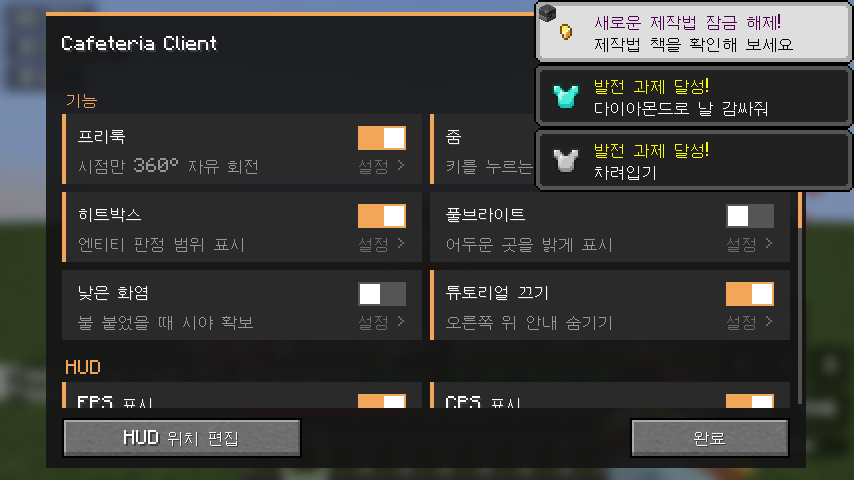
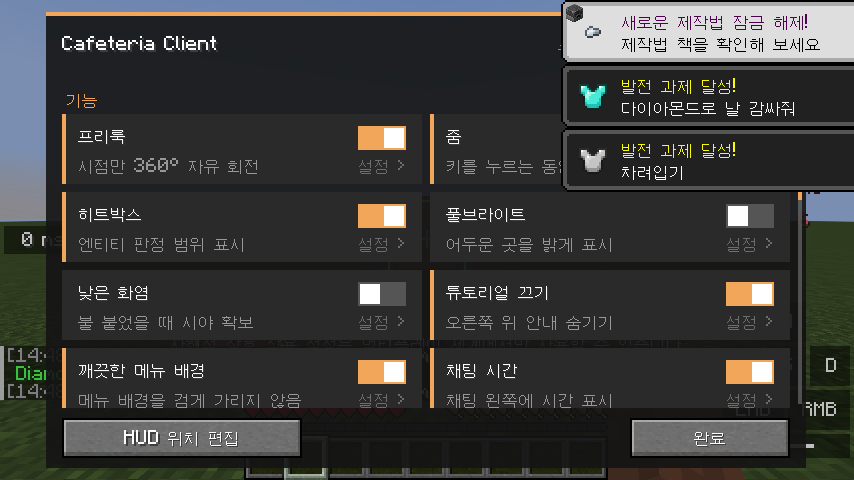
모드: HUD 를 채팅보다 앞에 그리기, 문서·스크린샷 갱신
- HUD 레이어를 채팅 뒤(위)로 옮겨서 채팅 글자와 배경이 HUD 를 가리지 않게 함
- 게임 테스트: 채팅으로 덮인 자리의 HUD 가 그대로 보이는지 픽셀로 확인
- README: 1.2.0 기능, 모드 업데이트 방법, 저장소 주소(lhj080902/cafeteria), 검증 현황

Claude-Session: https://claude.ai/code/session_01CAfmFFtawcww3dHGdrgFxY

diff --git a/mod/src/gametest/java/io/github/lhj080902/cafeteria/test/CafeteriaClientGameTest.java b/mod/src/gametest/java/io/github/lhj080902/cafeteria/test/CafeteriaClientGameTest.java
@@ -84,6 +84,7 @@ public class CafeteriaClientGameTest implements FabricClientGameTest {
 			testScreens(context, input);
 			testChatTime(context);
 			testInfiniteChat(context);
+			testHudAboveChat(context);
 			testScreenshotCopy(context, input);
 			testHudEditor(context, input);
 			testHudBoxSelection(context, input);
@@ -436,6 +437,76 @@ public class CafeteriaClientGameTest implements FabricClientGameTest {
 		});
 		check(chatMessages(context).size() == 100, "모듈을 껐는데 100줄로 줄지 않았습니다: " + chatMessages(context).size());
 		context.runOnClient(minecraft -> minecraft.gui.getChat().clearMessages(false));
+	}
+
+	/**
+	 * HUD 는 채팅보다 앞에 그려져야 한다: 채팅 글자로 꽉 찬 자리에 HUD 를 올려놓고,
+	 * HUD 글자색이 그대로 보이는지, 채팅의 흰 글자가 HUD 위로 비치지 않는지 픽셀로 확인한다.
+	 */
+	private static void testHudAboveChat(ClientGameTestContext context) {
+		int[] area = context.computeOnClient(minecraft -> {
+			minecraft.gui.getChat().clearMessages(false);
+
+			// 흰색 꽉 찬 글자로 채팅창을 덮는다.
+			for (int i = 0; i < 8; i++) {
+				minecraft.gui.getChat().addMessage(Component.literal("\u2588".repeat(30)));
+			}
+
+			int width = minecraft.getWindow().getGuiScaledWidth();
+			int height = minecraft.getWindow().getGuiScaledHeight();
+			Modules.FPS.textColor.set(0xFF55FF55);
+			Modules.FPS.shadow.set(false);
+			Modules.FPS.setPosition(minecraft, 60, height - 80, width, height);
+			int scale = (int) minecraft.getWindow().getGuiScale();
+			return new int[] {
+				Modules.FPS.x(minecraft, width) * scale, Modules.FPS.y(minecraft, height) * scale,
+				Modules.FPS.width(minecraft) * scale, Modules.FPS.height(minecraft) * scale
+			};
+		});
+		context.waitTicks(3);
+		BufferedImage image = readImage(context.takeScreenshot("hud-above-chat"));
+		int hudText = 0;
+		int chatWhite = 0;
+
+		for (int y = area[1]; y < area[1] + area[3]; y++) {
+			for (int x = area[0]; x < area[0] + area[2]; x++) {
+				int rgb = image.getRGB(x, y);
+				int red = rgb >> 16 & 0xFF;
+				int green = rgb >> 8 & 0xFF;
+				int blue = rgb & 0xFF;
+
+				// HUD 글자색(연두색)에 가까운 픽셀. 글꼴 가장자리는 배경과 섞여서 정확히 같은 색은 아니다.
+				if (green > 170 && red < 150 && blue < 150) {
+					hudText++;
+				} else if (red > 235 && green > 235 && blue > 235) {
+					chatWhite++;
+				}
+			}
+		}
+
+		// 채팅 글자가 실제로 그 자리를 덮고 있었는지도 확인한다 (HUD 바로 왼쪽은 흰 글자가 그대로 보여야 한다).
+		int besideHud = 0;
+
+		for (int y = area[1]; y < area[1] + area[3]; y++) {
+			for (int x = area[0] - 40; x < area[0] - 4; x++) {
+				int rgb = image.getRGB(x, y);
+
+				if ((rgb >> 16 & 0xFF) > 235 && (rgb >> 8 & 0xFF) > 235 && (rgb & 0xFF) > 235) {
+					besideHud++;
+				}
+			}
+		}
+
+		context.runOnClient(minecraft -> {
+			Modules.FPS.textColor.reset();
+			Modules.FPS.shadow.reset();
+			Modules.FPS.resetPosition();
+			minecraft.gui.getChat().clearMessages(false);
+		});
+		CafeteriaClient.LOGGER.info("CAFETERIA GAMETEST: 채팅 위의 HUD — HUD 글자 {}픽셀, HUD 위로 비친 채팅 {}픽셀, HUD 옆 채팅 {}픽셀", hudText, chatWhite, besideHud);
+		check(besideHud > 200, "채팅 글자가 HUD 자리 주변을 덮지 않아서 비교할 수 없습니다: " + besideHud);
+		check(hudText > 40, "HUD 글자가 채팅에 가려졌습니다: " + hudText + "픽셀");
+		check(chatWhite == 0, "채팅 글자가 HUD 위에 그려졌습니다: " + chatWhite + "픽셀");
 	}
 
 	/**

diff --git a/mod/src/main/java/io/github/lhj080902/cafeteria/CafeteriaClient.java b/mod/src/main/java/io/github/lhj080902/cafeteria/CafeteriaClient.java
@@ -61,8 +61,8 @@ public class CafeteriaClient implements ClientModInitializer {
 
 			return InteractionResult.PASS;
 		});
-		// 채팅보다 아래 레이어에 그려서 채팅창을 가리지 않게 한다.
-		HudLayerRegistrationCallback.EVENT.register(layers -> layers.attachLayerBefore(
+		// 채팅보다 위 레이어에 그려서 채팅 글자와 배경이 HUD 를 가리지 않게 한다. (Tab 플레이어 목록보다는 아래)
+		HudLayerRegistrationCallback.EVENT.register(layers -> layers.attachLayerAfter(
 			IdentifiedLayer.CHAT, ResourceLocation.fromNamespaceAndPath(MOD_ID, "hud"), (graphics, deltaTracker) -> HudRenderer.render(graphics)));
 		// 스크린샷 안내의 [복사] 버튼이 실행하는 명령어: /cafeteria screenshot copy <파일 이름>
 		ClientCommandRegistrationCallback.EVENT.register((dispatcher, registryAccess) -> dispatcher.register(

diff --git a/README.md b/README.md
@@ -14,6 +14,8 @@ PvP에 필요한 기능만 기본으로 넣고, 나머지는 런처에서 원하
 | --- | --- |
 | ![모드 설정 메뉴](docs/screenshots/mod-menu.png) | ![런처 홈](docs/screenshots/launcher-home.png) |
 | ![히트박스와 HUD](docs/screenshots/mod-hitbox-hud.png) | ![모드 찾기](docs/screenshots/launcher-browse.png) |
+| ![HUD 박스 선택](docs/screenshots/mod-hud-box-select.png) | ![모드 업데이트](docs/screenshots/launcher-mod-updates.png) |
+| ![스크린샷 복사 버튼](docs/screenshots/mod-screenshot-copy.png) | |
 
 ## 기능
 
@@ -22,22 +24,28 @@ PvP에 필요한 기능만 기본으로 넣고, 나머지는 런처에서 원하
 | 기능 | 기본 키 | 설명 |
 | --- | --- | --- |
 | 프리룩 | 왼쪽 Alt | 캐릭터가 보는 방향은 그대로 두고 카메라만 360° 회전. "누르는 동안" / "토글" 선택 |
-| 줌 | C | 누르는 동안 확대(기본 4배). 휠로 배율 조절, 확대한 만큼 감도 자동 보정, 부드러운 전환, 시네마틱 카메라 |
+| 줌 | C | 누르는 동안 확대(기본 4배). 휠로 배율 조절, 확대한 만큼 감도 자동 보정, 부드러운 전환, 시네마틱 카메라. 손(든 아이템)은 확대되지 않으며, 원하면 "줌 중 손 숨기기"를 켤 수 있음 |
 | 히트박스 | 항상 표시 | 선 색상, 표시 대상(전체/생물/플레이어), 피격 시 색 변경, 눈높이 선, 시선 방향 선, 내 히트박스 |
 | 풀브라이트 (감마) | G | 어두운 곳을 밝게 표시. 키로 바로 켜고 끄며 밝기는 1~15 로 조절 (기본 꺼짐) |
 | 낮은 화염 | – | 불이 붙었을 때 시야를 가리는 불꽃을 아래로 내림 (기본 꺼짐) |
 | 튜토리얼 끄기 | – | 오른쪽 위에 뜨는 "나무를 캐세요" 같은 바닐라 튜토리얼 안내를 자동으로 끔 |
-| HUD | – | FPS · CPS(좌/우) · 핑 · 키스트로크 · 갑옷 상태 · 포션 효과 · 좌표 · 콤보 · 리치 |
+| 깨끗한 메뉴 배경 | – | ESC 메뉴나 모드 설정을 열 때 뒤 화면을 흐리게 하는 효과를 끄고, 얼마나 어둡게 덮을지(0~80%)를 직접 정함. 흐림 효과가 검게 나오는 환경에서도 게임 화면이 그대로 보임 |
+| 채팅 시간 | – | 채팅 메시지 왼쪽에 받은 시각 표시. 형식(24시간 / 초 포함 / 오전·오후), 색, 대괄호 설정 |
+| 무한 채팅 | – | 채팅 기록 100줄 제한을 풀어서 한참 전 채팅까지 올려 볼 수 있음 |
+| 스크린샷 도구 | F2 (바닐라) | 스크린샷 저장 안내 옆에 **[복사]** **[폴더]** 버튼. [복사]를 누르면 그림이 클립보드에 들어가 메신저에 바로 붙여 넣을 수 있음. "찍으면 자동 복사" 옵션 |
+| HUD | – | FPS · CPS(좌/우) · 핑 · 키스트로크 · 갑옷 상태 · 포션 효과 · 좌표 · 콤보 · 리치. 채팅보다 앞에 그려져서 채팅에 가려지지 않음 |
 | 모드 설정 메뉴 | 오른쪽 Shift | 기능 켜기/끄기, 세부 설정, HUD 위치 편집 |
 
 **HUD 위치 편집** (설정 메뉴 → "HUD 위치 편집")
 
 | 조작 | 동작 |
 | --- | --- |
-| 끌기 | 이동 |
+| 끌기 | 이동 (여러 개를 선택했으면 간격을 유지한 채 함께 이동) |
+| 빈 곳을 끌기 | 박스를 그려서 닿은 요소를 한꺼번에 선택 |
+| Ctrl + 클릭 / Ctrl + A | 선택에 추가·해제 / 전체 선택 |
 | Shift 누른 채 끌기 | 화면 가장자리·가운데, 다른 요소의 가장자리·가운데에 맞춰 붙음 (안내선 표시) |
 | 방향키 | 선택한 요소를 1픽셀씩 이동 (Shift 와 함께 누르면 10픽셀) |
-| 휠 | 크기 조절 |
+| 휠 | 크기 조절 (선택한 묶음 위에서 굴리면 묶음 전체) |
 | 오른쪽 클릭 | 그 요소의 설정 열기 |
 
 - 키는 마인크래프트 **설정 → 조작 → Cafeteria Client** 에서 바꿀 수 있습니다.
@@ -54,20 +62,35 @@ PvP에 필요한 기능만 기본으로 넣고, 나머지는 런처에서 원하
   - **Modrinth**: 바로 사용 가능
   - **CurseForge**: 본인 API 키를 설정에 입력해야 사용 가능 ([발급 안내](https://support.curseforge.com/support/solutions/articles/9000208346-about-the-curseforge-api-and-how-to-apply-for-a-key))
 - **설정 가져오기** – 루나 클라이언트나 기본 마인크래프트에서 쓰던 설정을 찾아서 Cafeteria 게임 폴더로 복사합니다 (아래 "다른 클라이언트에서 넘어오기" 참고).
+- **모드 업데이트** – 런처를 켤 때(또는 "업데이트 확인"을 누르면) 받은 모드의 새 버전을 찾아 "내 모드"에 표시합니다. 모드별 "업데이트" 또는 "모두 업데이트"로 바꿉니다 (아래 "모드 업데이트" 참고).
 - **자동 업데이트** – 런처를 켤 때 새 버전을 확인해서 내려받고, 다시 시작하면 설치합니다. Cafeteria 모드는 런처에 들어 있어서 함께 업데이트됩니다.
-- **설정** – 메모리(RAM), 게임 창 크기, Java 실행 파일, 추가 JVM 인수, 플레이 후 런처 닫기, 게임 폴더, 공식 런처 위치, CurseForge API 키, 자동 업데이트, 설치 복구, 로그 폴더 열기, 프로필 제거, 설정 초기화
+- **설정** – 메모리(RAM), 게임 창 크기, Java 실행 파일, 추가 JVM 인수, 플레이 후 런처 닫기, 게임 폴더, 공식 런처 위치, CurseForge API 키, 자동 업데이트, 모드 업데이트 확인, 설치 복구, 로그 폴더 열기, 프로필 제거, 설정 초기화
 
 ## 사용 방법
 
 1. **공식 Minecraft 런처**를 설치하고 한 번 실행해서 로그인해 둡니다. (정품 Java Edition 계정 필요)
-2. `Cafeteria-Setup-1.1.0.exe` 를 실행해서 설치합니다. 바탕화면과 시작 메뉴에 `Cafeteria` 바로가기가 생깁니다.
-   (설치 없이 쓰고 싶으면 `Cafeteria-1.1.0-win-x64.zip` 의 압축을 풀고 `Cafeteria.exe` 를 실행해도 됩니다.)
+2. `Cafeteria-Setup-1.2.0.exe` 를 실행해서 설치합니다. 바탕화면과 시작 메뉴에 `Cafeteria` 바로가기가 생깁니다.
+   (설치 없이 쓰고 싶으면 `Cafeteria-1.2.0-win-x64.zip` 의 압축을 풀고 `Cafeteria.exe` 를 실행해도 됩니다.)
 3. **플레이**를 누르면 설치가 끝난 뒤 공식 런처가 열립니다. `Cafeteria` 프로필이 선택된 상태에서 플레이를 누르세요.
 4. 게임 안에서 **오른쪽 Shift** 로 모드 설정 메뉴를 엽니다.
 
 > 삭제는 Windows 설정의 "앱" 목록에서 Cafeteria 를 제거하면 됩니다. 게임 폴더(`%APPDATA%\.cafeteria`)의 모드와 설정은 남습니다.
 >
 > 서명되지 않은 프로그램이라 처음 실행할 때 Windows 가 "Windows의 PC 보호" 경고를 띄울 수 있습니다. "추가 정보 → 실행"을 누르면 됩니다.
+
+## 모드 업데이트
+
+| 모드 종류 | 업데이트 방법 |
+| --- | --- |
+| Cafeteria Client, Fabric API (기본 모드) | 런처가 관리합니다. 런처가 업데이트되면 다음 플레이 때 함께 바뀝니다. |
+| 런처로 받은 모드, 직접 넣었지만 Modrinth 에 올라와 있는 모드 | "내 모드 → 업데이트 확인". 파일 해시로 지금 버전을 알아내고 1.21.4 Fabric 용 새 버전을 찾습니다. |
+| CurseForge 에서 받은 모드 | 같은 방법. 설정에 CurseForge API 키가 있어야 확인됩니다. |
+| 사이트에 없는 모드 (직접 만든 모드 등) | 새 jar 를 "모드 파일 추가"나 끌어다 놓기로 넣으면, 같은 모드(모드 id 가 같은 것)의 예전 파일이 자동으로 지워집니다. |
+
+- 정식(release) 버전을 쓰는 중이면 정식 버전으로만 올리고, 베타·알파를 쓰는 중이면 더 새로운 베타·알파도 받습니다.
+- 새 파일을 다 받고 해시 검증까지 끝난 뒤에 예전 파일을 지우므로, 중간에 실패해도 예전 모드는 그대로 남습니다.
+- 꺼 둔 모드는 업데이트해도 꺼진 채로 둡니다. 새 버전이 추가로 요구하는 필수 모드가 있으면 함께 설치합니다.
+- 자동으로 바꾸지는 않습니다. 확인만 자동으로 하고, 바꾸는 것은 버튼을 누를 때만 합니다. (서버나 다른 모드와의 호환 때문에 예전 버전을 일부러 쓰는 경우가 있어서입니다.)
 
 ## 다른 클라이언트에서 넘어오기
 
@@ -99,7 +122,10 @@ PvP에 필요한 기능만 기본으로 넣고, 나머지는 런처에서 원하
 - **줌 키(C)** 는 바닐라의 "핫바 저장"(크리에이티브 전용)과 겹쳐서 조작 설정에 빨갛게 표시되지만 줌은 정상 동작합니다. 거슬리면 둘 중 하나의 키를 바꾸면 됩니다.
 - **콤보·리치 표시**는 내 클라이언트가 이미 알고 있는 정보(내가 때린 상대가 맞는 동작을 했는지, 조준선이 닿은 거리)로 계산한 참고값입니다.
 - **자동 업데이트**는 설치 파일로 설치한 경우에만 스스로 설치합니다. 압축본으로 쓰는 경우에는 새 버전이 나왔다는 알림만 뜹니다.
-- **직접 넣은 모드의 아이콘**을 찾을 때 파일 해시(SHA-1)를 Modrinth 에 보냅니다. 파일 자체나 개인 정보는 보내지 않습니다.
+- **깨끗한 메뉴 배경**은 기본으로 켜져 있습니다. 바닐라처럼 흐린 배경을 원하면 설정 메뉴에서 끄거나 "배경 흐림"을 켜면 됩니다.
+- **채팅 시간·무한 채팅**은 켠 뒤에 올라온 메시지부터 적용됩니다. 무한 채팅은 메모리를 끝없이 쓰지 않도록 10만 줄까지만 보관합니다.
+- **스크린샷 복사**는 Windows 와 Linux 에서 동작합니다 (macOS 미지원). 게임을 끄면 클립보드의 그림이 사라질 수 있으니 붙여 넣은 뒤에 끄세요.
+- **직접 넣은 모드의 아이콘·새 버전**을 찾을 때 파일 해시(SHA-1)를 Modrinth 에 보냅니다. 파일 자체나 개인 정보는 보내지 않습니다.
 - **CurseForge** 는 API 키가 있어야 하고, 제작자가 외부 프로그램 다운로드를 막아 둔 모드는 런처에서 받을 수 없습니다. 그런 모드는 CurseForge 사이트에서 받아 "모드 파일 추가"로 넣으세요. API 키는 약관상 다른 사람과 공유할 수 없어서 런처에 내장하지 않았습니다.
 
 ## 개발
@@ -113,7 +139,7 @@ cd mod
 ./gradlew build
 ```
 
-결과물: `mod/build/libs/cafeteria-client-1.1.0+1.21.4.jar`
+결과물: `mod/build/libs/cafeteria-client-1.2.0+1.21.4.jar`
 
 실제 게임을 띄워서 모듈 동작을 확인하는 자동 테스트가 있습니다. 화면이 없는 환경(서버, CI)에서는 `xvfb-run` 으로 감쌉니다.
 
@@ -129,6 +155,9 @@ cd mod
 - `runProductionClientGameTest` – 배포용 jar 를 정식 마인크래프트 + Fabric Loader 에 올려서 실행 (유저가 쓰는 구성과 동일)
 - 스크린샷은 `mod/build/run/*/screenshots/` 에 저장됩니다.
 - 다른 모드와 함께 돌려 호환성을 보려면 `-PextraMods=/경로/a.jar,/경로/b.jar` 를 붙입니다 (`runProductionClientGameTest` 에서만).
+- 스크린샷 복사 검사는 `xclip` 이 있으면 게임 밖 프로그램에서도 클립보드 그림을 꺼내 봅니다 (없으면 그 부분만 건너뜀).
+- 서버 리소스팩을 다루는 모드(FastPack 등)의 호환성은 `mod/tools/pack_server.py` 로 테스트용 리소스팩 서버를 띄우고
+  `-PtestJvmArgs="-Dcafeteria.test.packUrl=… -Dcafeteria.test.packSha1=…"` 를 붙여 `ServerResourcePackTest` 로 확인합니다.
 
 ### 런처 (`launcher/`)
 
@@ -153,13 +182,13 @@ npm run build:win
 
 - `npm test` – 단위 테스트. Modrinth 와 Fabric 서버에 실제로 접속하는 검사가 들어 있습니다 (`CAFETERIA_OFFLINE=1` 이면 그 검사는 건너뜀).
 - `node test/e2e/run.js` – 런처를 실제로 띄워 설치 → 플레이 → 모드 설치/삭제 → 설정까지 확인합니다 (Playwright 필요, 진짜 `.minecraft` 는 건드리지 않음). `CAFETERIA_E2E_EXECUTABLE` 에 빌드된 실행 파일 경로를 주면 패키징된 런처를 대상으로 검사합니다.
-- `npm run build:win` – `launcher/dist/` 에 설치 파일 `Cafeteria-Setup-1.1.0.exe`, 압축본 `Cafeteria-1.1.0-win-x64.zip`, 자동 업데이트용 `latest.yml` 과 `.blockmap` 을 만듭니다. Windows, macOS, Linux 어디서든 빌드됩니다.
+- `npm run build:win` – `launcher/dist/` 에 설치 파일 `Cafeteria-Setup-1.2.0.exe`, 압축본 `Cafeteria-1.2.0-win-x64.zip`, 자동 업데이트용 `latest.yml` 과 `.blockmap` 을 만듭니다. Windows, macOS, Linux 어디서든 빌드됩니다.
   - Windows 가 아닌 곳에서 설치 파일을 만들려면 원래 Wine 이 필요하지만, `scripts/build-win.js` 가 electron-builder 에 들어 있는 "실행하지 않고 언인스톨러를 꺼내는" 구현을 쓰도록 해서 Wine 없이 빌드합니다. 이 때문에 electron-builder 버전은 고정해 두었습니다.
   - 빌드가 끝나면 설치 파일과 언인스톨러에 대해 NSIS 무결성 검사(CRC)를 미리 해 보고, 실패하면 빌드를 중단합니다.
 
 ### 새 버전 내기 (자동 업데이트)
 
-런처는 GitHub 저장소 `lhj080902/cafeteria-client` 의 최신 릴리스에서 새 버전을 찾습니다. 로그인 없이 받을 수 있어야 하므로 **저장소가 공개(public)여야 합니다.**
+런처는 GitHub 저장소 [`lhj080902/cafeteria`](https://github.com/lhj080902/cafeteria) 의 최신 릴리스에서 새 버전을 찾습니다. 로그인 없이 받을 수 있어야 하므로 **저장소가 공개(public)여야 합니다.**
 
 1. `mod/gradle.properties` 의 `mod_version` 과 `launcher/package.json` 의 `version` 을 올립니다. (마인크래프트·Fabric 버전을 바꿀 때는 `launcher/src/main/constants.js` 도 함께)
 2. 모드를 빌드하고(`./gradlew build`) 런처를 빌드합니다(`npm run build:win`).
@@ -173,10 +202,12 @@ npm run build:win
 
 | 대상 | 방법 | 결과 |
 | --- | --- | --- |
-| 모드 (개발 환경) | 실제 클라이언트 실행 자동 테스트: 프리룩, 줌, 히트박스, CPS·콤보·리치, 갑옷·포션 HUD, 키 겹침, 설정 화면(한국어/영어), HUD 편집(끌기·맞춤·방향키·휠), 풀브라이트 단축키, 낮은 화염, 튜토리얼 끄기, 설정 저장 | 통과 |
+| 모드 (개발 환경) | 실제 클라이언트 실행 자동 테스트: 프리룩, 줌, 히트박스, CPS·콤보·리치, 갑옷·포션 HUD, 키 겹침, 설정 화면(한국어/영어), HUD 편집(끌기·맞춤·방향키·휠·박스 선택·묶음 이동), 풀브라이트 단축키, 낮은 화염, 튜토리얼 끄기, 줌 전후 손 영역 픽셀 비교, 메뉴 배경 밝기·선명도, 채팅 시간, 무한 채팅, HUD 가 채팅보다 앞인지, 스크린샷 복사(클립보드를 게임 밖 프로그램으로 확인), 설정 저장 | 통과 |
 | 모드 (배포용 jar) | 같은 테스트를 정식 Minecraft 1.21.4 + Fabric Loader 0.20.1 + Fabric API 0.119.4 에서 실행 | 통과 |
-| 모드 + Xaero | 같은 테스트를 Xaero's Minimap 26.5.0, World Map 1.46.0 과 함께 실행 | 통과 |
-| 런처 로직 | 단위 테스트 94개 (설치, 프로필 등록, 모드 관리, 다운로드 검증, 설정 가져오기, 업데이트 상태 처리, Modrinth 실제 서버) | 통과 |
+| 모드 + 다른 모드 | 같은 테스트를 Xaero's Minimap 26.5.0, World Map 1.46.0, FastPack 0.3.1 과 함께 실행 | 통과 |
+| 스크린샷 복사 (Windows) | Linux(X11)에서만 확인. Windows 의 클립보드 동작과 PowerShell 예비 경로는 실행해 보지 못함 | **실제 Windows 미검증** |
+| 런처 로직 | 단위 테스트 106개 (설치, 프로필 등록, 모드 관리, 다운로드 검증, 설정 가져오기, 업데이트 상태 처리, 모드 업데이트 확인·교체, Modrinth 실제 서버) | 통과 |
+| 모드 업데이트 | Modrinth 실제 서버로 확인: 예전 버전의 Sodium·Lithium 을 넣어 두고 새 버전을 찾아 바꿔 넣기 (단위 테스트와 화면 테스트 둘 다). CurseForge 쪽은 가짜 응답으로만 검사 | 통과 (CurseForge 는 **실제 서버 미검증**) |
 | 런처 화면 | Linux 에서 런처를 띄워 전체 흐름 자동 테스트 (소스 실행, 패키징된 실행 파일 둘 다) | 통과 |
 | 자동 업데이트 | 상태 처리 로직은 가짜 업데이터로 검사, 빌드된 `latest.yml` 의 해시·크기가 설치 파일과 일치하는지 확인 | **실제 업데이트 미검증** (Windows 와 게시된 릴리스가 필요) |
 | 루나 설정 찾기 | 가짜 폴더 구조로만 검사. 실제 루나 설치의 폴더 구조는 확인하지 못함 | **실제 PC 미검증** |
